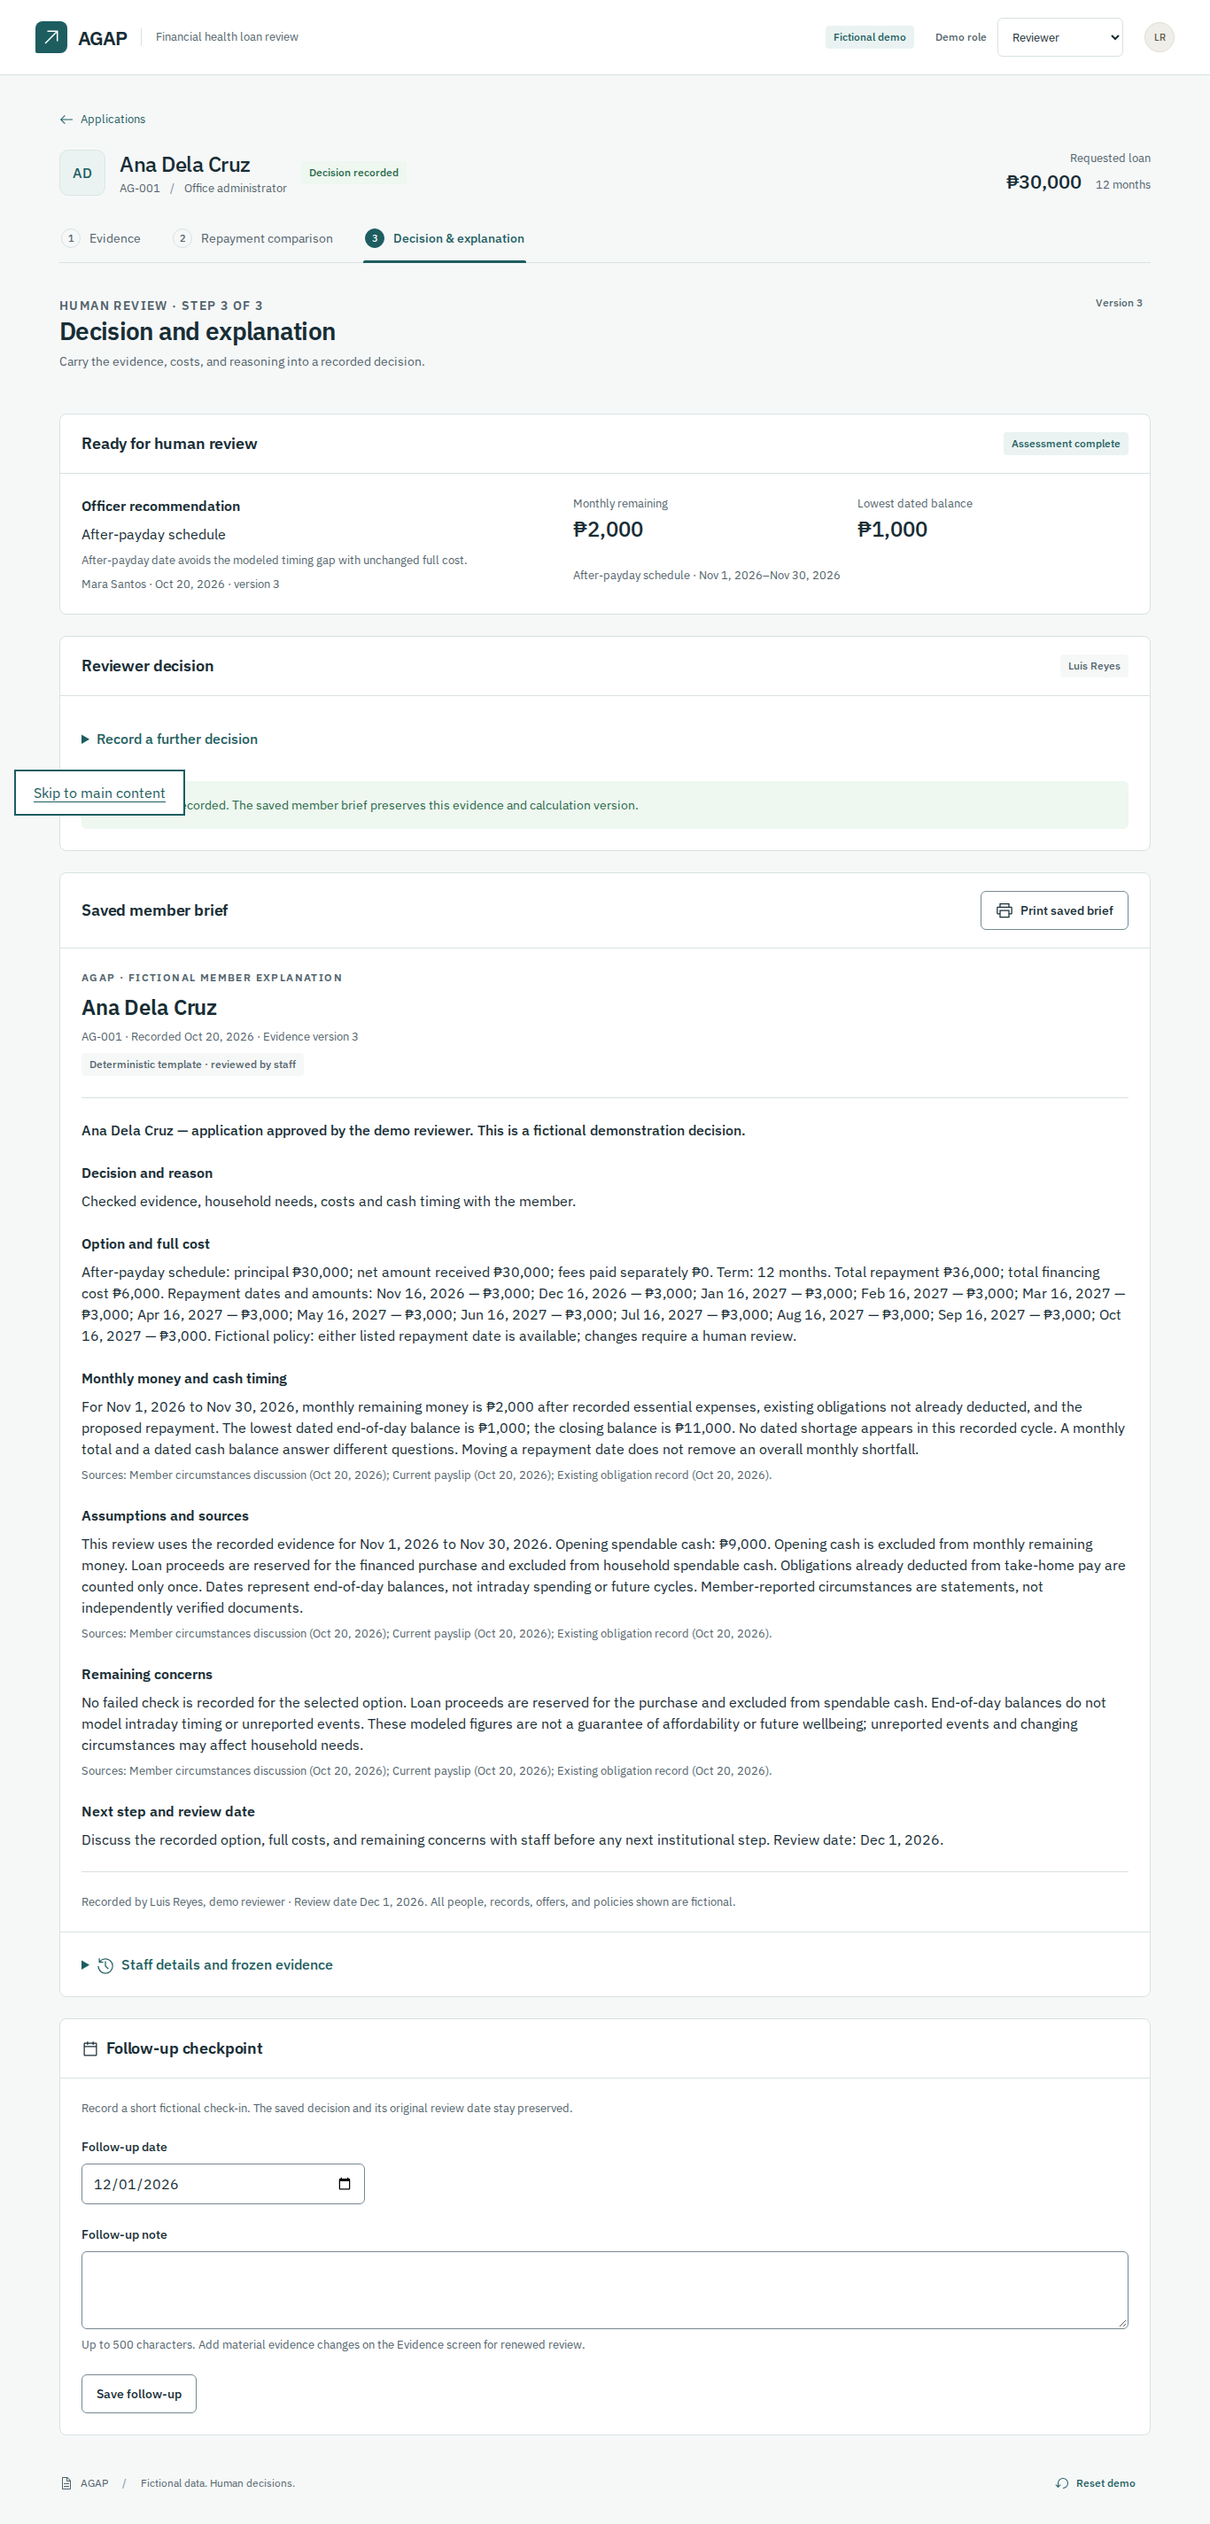
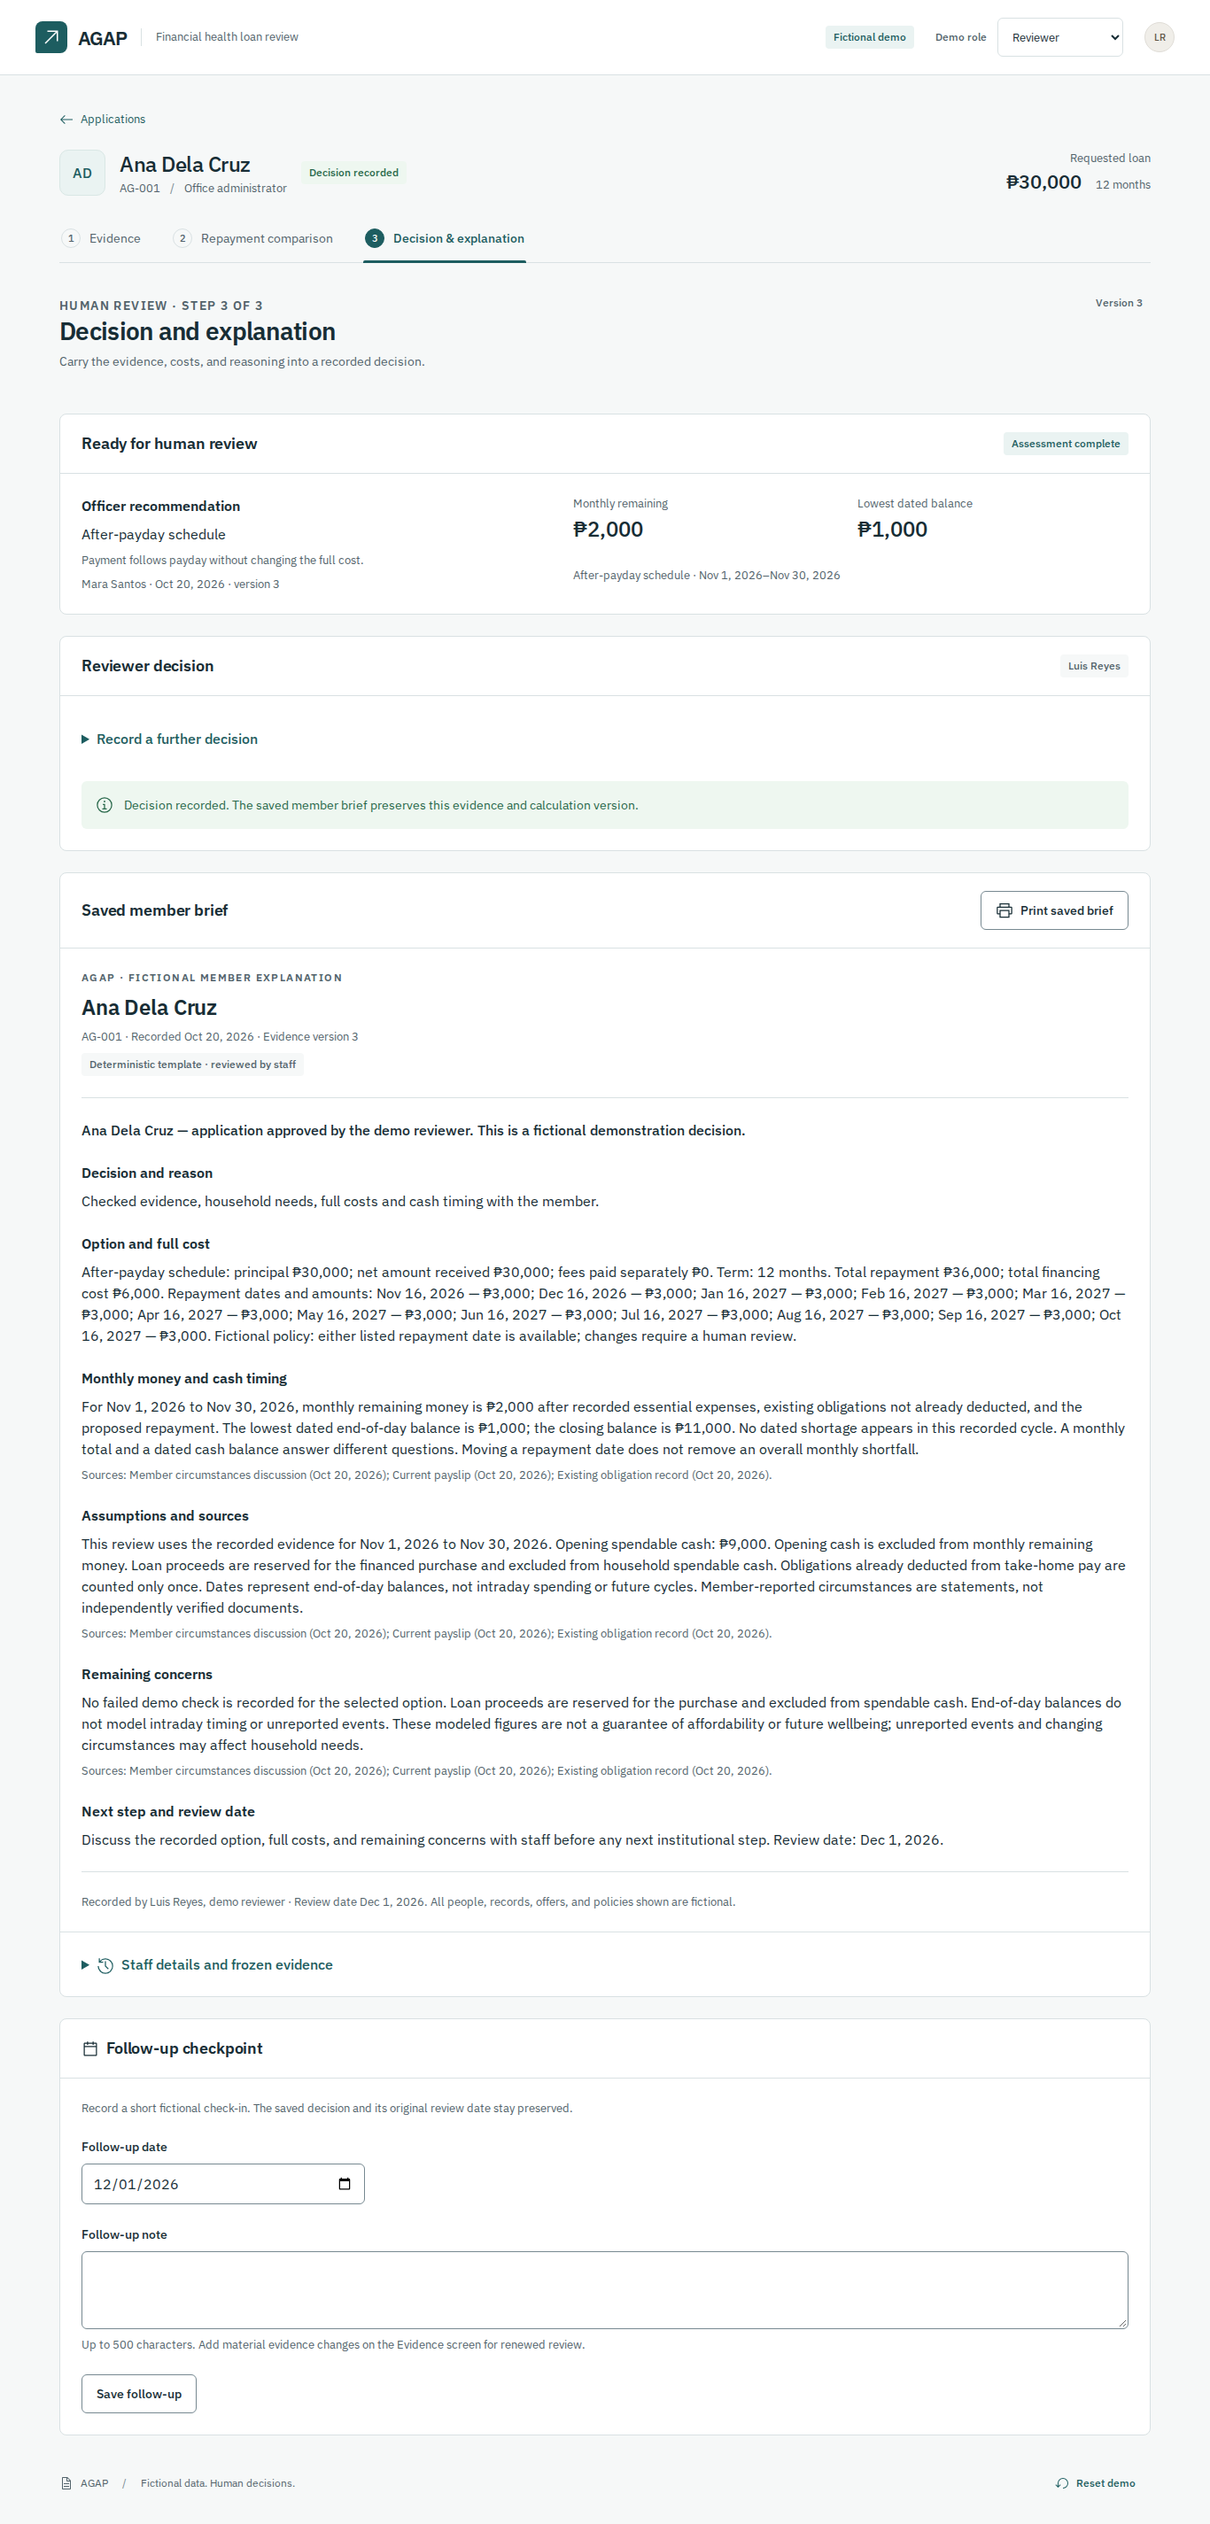
fix: retain shortfall concerns in returned reviews and improve recovery

Changed region(s): [[0.123, 0.6558, 0.9224, 0.687], [0.0615, 0.3123, 0.1537, 0.3435]]

diff --git a/src/domain/explanation.ts b/src/domain/explanation.ts
@@ -6,6 +6,12 @@ export function buildExplanation(snapshot: DecisionSnapshot): ExplanationDraft {
   const { input, assessment } = snapshot;
   const offer = snapshot.offers.find(item => item.id === input.offerId);
   const scenario = assessment.status === 'complete' ? assessment.scenarios.find(item => item.offerId === input.offerId) : undefined;
+  const checkedScenarios = assessment.status === 'complete' ? (scenario ? [scenario] : assessment.scenarios) : [];
+  const failedChecks = checkedScenarios.flatMap(checked => checked.policyChecks.filter(check => !check.passed).map(check =>
+    `${snapshot.offers.find(item => item.id === checked.offerId)?.label ?? 'Recorded scenario'} — ${check.label}: ${check.detail}`));
+  const checkConcerns = failedChecks.join(' ') || (scenario
+    ? 'No failed demo check is recorded for the selected option.'
+    : 'No failing demo check appears across the recorded scenarios. No offer was selected for a decision; the clarification above still needs attention.');
   const sourceIds = [...new Set(snapshot.facts.flatMap(fact => fact.sourceId && snapshot.sources.some(source => source.id === fact.sourceId) ? [fact.sourceId] : []))];
   const outcomeText = input.outcome === 'approve' ? 'approved' : input.outcome === 'decline' ? 'declined' : 'returned for clarification';
   const sections: ExplanationDraft['sections'] = [{ title: 'Decision and reason', body: input.rationale.trim() || 'A reviewer rationale is required before recording.', sourceIds: [] }];
@@ -17,7 +23,7 @@ export function buildExplanation(snapshot: DecisionSnapshot): ExplanationDraft {
   sections.push({ title: 'Assumptions and sources', sourceIds, body: `This review uses the recorded evidence for ${dateLabel(snapshot.periodStart)} to ${dateLabel(snapshot.periodEnd)}. Opening spendable cash: ${opening?.value !== null && opening?.value !== undefined && !['missing', 'conflicting'].includes(opening.status) ? money(opening.value) : 'unavailable'}. Opening cash is excluded from monthly remaining money. Loan proceeds are reserved for the financed purchase and excluded from household spendable cash. Obligations already deducted from take-home pay are counted only once. Dates represent end-of-day balances, not intraday spending or future cycles. Member-reported circumstances are statements, not independently verified documents.` });
   const concerns = assessment.status === 'incomplete'
     ? `The assessment is incomplete: ${assessment.issues.map(issue => issue.message).join(' ')} No complete affordability result is available. Clarification does not imply an adverse judgment about the member.`
-    : `${scenario?.policyChecks.filter(check => !check.passed).map(check => `${check.label}: ${check.detail}`).join(' ') || 'No failed check is recorded for the selected option.'} ${assessment.warnings.join(' ')} These modeled figures are not a guarantee of affordability or future wellbeing; unreported events and changing circumstances may affect household needs.`;
+    : `${checkConcerns} ${assessment.warnings.join(' ')} These modeled figures are not a guarantee of affordability or future wellbeing; unreported events and changing circumstances may affect household needs.`;
   sections.push({ title: 'Remaining concerns', sourceIds, body: concerns.trim() });
   if (input.departureReason.trim()) sections.push({ title: 'Departure from the officer recommendation', sourceIds: [], body: input.departureReason.trim() });
   if (input.outcome === 'approve' && input.exceptions.length) sections.push({ title: 'Recorded policy exceptions', sourceIds: [], body: input.exceptions.map(exception => `${scenario?.policyChecks.find(check => check.policyId === exception.policyId)?.label ?? exception.policyId} (${exception.policyId}): ${exception.reason.trim()}`).join(' ') });

diff --git a/src/features/decision/DecisionPage.tsx b/src/features/decision/DecisionPage.tsx
@@ -1,4 +1,4 @@
-import { useState, type FormEvent } from 'react';
+import { useEffect, useRef, useState, type FormEvent } from 'react';
 import { Calendar, DocumentView, Printer, RecentlyViewed } from '@carbon/icons-react';
 import { useWorkspace } from '../../app/WorkspaceContext';
 import { assessCase } from '../../domain/assessment';
@@ -35,6 +35,14 @@ export default function DecisionPage({ record }: { record: CaseRecord }) {
     rationale: '', departureReason: '', exceptions: [], reviewDate: record.periodEnd, explanationReviewed: false,
   });
   const [errors, setErrors] = useState<Record<string, string>>({});
+  const formRef = useRef<HTMLFormElement>(null);
+  const errorSummary = useRef<HTMLDivElement>(null);
+  useEffect(() => {
+    if (Object.keys(errors).length) {
+      const invalid = formRef.current?.querySelector<HTMLElement>('input[aria-invalid="true"], select[aria-invalid="true"], textarea[aria-invalid="true"]');
+      (invalid ?? errorSummary.current)?.focus();
+    }
+  }, [errors]);
   const [status, setStatus] = useState('');
   const [saving, setSaving] = useState(false);
   const [selectedId, setSelectedId] = useState(record.decisions.at(-1)?.id ?? '');
@@ -82,14 +90,14 @@ export default function DecisionPage({ record }: { record: CaseRecord }) {
     } catch (error) { setFollowError(error instanceof Error ? error.message : 'The follow-up could not be saved.'); }
     finally { setSaving(false); }
   }
-  const decisionForm = <form onSubmit={submitDecision} className={styles.form} noValidate>
+  const decisionForm = <form ref={formRef} onSubmit={submitDecision} className={styles.form} noValidate>
     <fieldset><legend>Review outcome</legend><div className={styles.outcomes}>
       {(['approve', 'decline', 'return'] as const).map(outcome => <label key={outcome} className={styles.choice}>
         <input type="radio" name="outcome" value={outcome} checked={input.outcome === outcome} onChange={() => updateInput({ outcome, exceptions: [] })} />
         {outcome === 'approve' ? 'Approve' : outcome === 'decline' ? 'Decline' : 'Return for clarification'}
       </label>)}
     </div></fieldset>
-    {Object.keys(errors).length > 0 && <Notice tone="danger" role="alert">The decision was not recorded. Check the messages below.</Notice>}
+    {Object.keys(errors).length > 0 && <div ref={errorSummary} tabIndex={-1}><Notice tone="danger" role="alert">The decision was not recorded. Check the messages below.</Notice></div>}
     {['outcome', 'assessment', 'recommendation', 'form', 'exceptions'].map(name => <FieldError key={name} name={name} errors={errors} />)}
     {input.outcome !== 'return' && <div className="field">
       <label htmlFor="decision-offer">Offer considered</label>

diff --git a/tests/workflow.spec.ts b/tests/workflow.spec.ts
@@ -107,6 +107,12 @@ test('Ben retains the monthly shortfall after a date change; Cora can be returne
   await expect(page.getByRole('region', { name: 'Monthly remaining', exact: true })).toContainText('−₱4,000');
   await page.getByRole('radio', { name: /After-payday schedule/ }).check();
   await expect(page.getByRole('region', { name: 'Monthly remaining', exact: true })).toContainText('−₱4,000');
+  await page.getByRole('link', { name: 'Decision & explanation', exact: true }).click();
+  await page.getByLabel('Demo role').selectOption('reviewer');
+  await page.getByLabel('Clarification needed and next step').fill('Discuss the monthly shortfall and clarify household circumstances.');
+  await page.getByLabel(/I reviewed the template explanation/).check();
+  await page.getByRole('button', { name: 'Record decision', exact: true }).click();
+  await expect(page.getByRole('article', { name: 'Saved member brief' })).toContainText('−₱4,000');
   await page.goto('/#/applications/AG-003/comparison');
   await expect(page.getByRole('heading', { name: 'Evidence needs clarification' })).toBeVisible();
   await expect(page.getByRole('region', { name: 'Monthly remaining', exact: true })).toHaveCount(0);

diff --git a/src/domain/review.test.ts b/src/domain/review.test.ts
@@ -97,6 +97,15 @@ describe('human decision rules', () => {
 });
 
 describe('saved explanation and follow-up', () => {
+  it('retains the checked shortfall concerns when a complete case is returned without choosing an offer', () => {
+    const ben = createDemoCases()[1];
+    const snapshot = recordDecision(ben, input({ outcome: 'return', offerId: null, rationale: 'Discuss the monthly shortfall and clarify household circumstances.' }), reviewer, at).decisions[0];
+    const concerns = snapshot.explanation!.sections.find(section => section.title === 'Remaining concerns')!;
+    expect(concerns.body).toContain('−₱4,000');
+    expect(concerns.body).toContain('Requested schedule');
+    expect(concerns.body).toContain('After-payday schedule');
+    expect(concerns.body).not.toContain('No failed check');
+  });
   it('includes full costs, monthly versus timing, concerns, review date and resolvable sources', () => {
     const snapshot = recordDecision(ready(), input(), reviewer, at).decisions[0];
     const explanation = buildExplanation(snapshot); const text = JSON.stringify(explanation);

diff --git a/src/demo/persistence.test.ts b/src/demo/persistence.test.ts
@@ -27,6 +27,17 @@ describe('fictional case repository', () => {
     expect(warning).toHaveBeenCalled();
     expect(localStorage.getItem(STORAGE_KEY)).toBe(original);
   });
+  it('preserves structurally incomplete offer data instead of loading it into the workspace', async () => {
+    const records = await createBrowserRepository(localStorage).list();
+    records[0].offers = [];
+    const original = JSON.stringify({ schemaVersion: 1, records });
+    localStorage.setItem(STORAGE_KEY, original);
+    const warning = vi.fn();
+    const restored = await createBrowserRepository(localStorage, warning).list();
+    expect(warning).toHaveBeenCalled();
+    expect(restored[0].offers).toHaveLength(2);
+    expect(localStorage.getItem(STORAGE_KEY)).toBe(original);
+  });
   it('recovers explicitly through reset after malformed data', async () => {
     localStorage.setItem(STORAGE_KEY, '{broken');
     const repository = createBrowserRepository(localStorage, () => {});

diff --git a/src/demo/storageSchema.ts b/src/demo/storageSchema.ts
@@ -44,7 +44,7 @@ const snapshot = z.object({
 const record: z.ZodType<CaseRecord> = z.object({
   id: z.string(), member: z.object({ name: z.string(), initials: z.string(), occupation: z.string(), memberSince: z.string() }),
   purpose: z.string(), createdAt: z.string(), periodStart: date, periodEnd: date, version: z.number().int().positive(),
-  facts: z.array(fact), sources: z.array(source), offers: z.array(offer),
+  facts: z.array(fact), sources: z.array(source), offers: z.array(offer).min(1),
   corrections: z.array(z.object({ id: z.string(), factId: z.string(), before: fact, after: fact, reason: z.string(), actor, at: z.string() })),
   recommendation: recommendation.nullable(), decisions: z.array(snapshot),
   followUp: z.object({ reviewDate: date, note: z.string(), updatedAt: z.string() }).nullable(),

diff --git a/src/app/App.module.css b/src/app/App.module.css
@@ -6,7 +6,7 @@
 .headerActions { display: flex; align-items: center; gap: 24px; }
 .role { display: flex; align-items: center; gap: 12px; }
 .role label { font-size: 12px; color: var(--muted); white-space: nowrap; }
-.role select { width: 142px; font-size: 13px; min-height: 44px; border-color: var(--line); padding-left: 12px; }
+.role select { width: 142px; font-size: 13px; min-height: 44px; border-color: var(--input-line); padding-left: 12px; }
 .userAvatar { width: 34px; height: 34px; display: grid; place-items: center; flex: 0 0 auto; background: #f0eee9; border: 1px solid #e0ddd7; color: #605545; font-size: 11px; border-radius: 50%; font-weight: 500; }
 .main { max-width: 1280px; margin: 0 auto; padding: 40px 24px 24px; min-height: calc(100vh - 170px); }
 .main:focus { outline: none; }

diff --git a/src/features/decision/DecisionPage.test.tsx b/src/features/decision/DecisionPage.test.tsx
@@ -47,6 +47,7 @@ describe('decision page workflow', () => {
     expect(screen.getByLabelText(/I reviewed the template explanation/i)).not.toBeChecked();
     await user.click(screen.getByRole('button', { name: 'Record decision' }));
     expect(await screen.findByText(/Review the template explanation and confirm it before recording/i)).toBeVisible();
+    expect(screen.getByLabelText(/I reviewed the template explanation/i)).toHaveFocus();
     expect(screen.queryByRole('article', { name: 'Saved member brief' })).not.toBeInTheDocument();
   });
   it('prints saved explanation and source titles while later follow-up stays separate', async () => {

diff --git a/docs/AGAP_Verification.md b/docs/AGAP_Verification.md
@@ -1,0 +1,28 @@
+# Frontend verification record
+
+20 October 2026. Fictional browser prototype only. Team visual acceptance and representative staff evaluation remain pending.
+
+## Fresh implementation checks
+
+- `npm run check`: passed lint, TypeScript, production build, and **115 unit/interaction tests**.
+- `npm run test:e2e`: **6 Chromium browser tests passed** at the 1366×768 design viewport, with narrow-screen checks at 320 CSS pixels.
+- Ana's complete evidence → comparison → recommendation → reviewer → saved brief journey passed using only keyboard input.
+- Independent arithmetic tests cover Ana's ₱2,000 monthly remaining, −₱2,000 requested minimum, ₱1,000 alternative minimum, ₱11,000 closing, ₱36,000 total repayment and ₱6,000 financing cost. Ben stays −₱4,000 monthly; Cora stays incomplete.
+- Browser tests exercise refresh, source tracing, explicit reset, preserved incompatible storage, deep decision history, renewed-review status and retained historical print figures.
+- Automated axe checks found no violations in the tested screen states against WCAG 2 A/AA, 2.1 AA and 2.2 AA tags. This is automated coverage, not a claim of complete accessibility certification.
+- Font binary inspection confirmed the bundled Latin + Latin Extended subsets contain ₱, −, ñ, 0/1/I/l for weights 400/500/600. All ten digits have equal advance widths (600 units). Browser font files are served locally; licenses are included.
+- Generated and text-inspected the two-page A4 fictional member brief: costs, assumptions, sources, decision and review date are present. Visual screenshots are in `docs/screenshots/`; they document implementation, not acceptance.
+
+## Independent review and corrections
+
+A separate read-only review found one Important explanation defect: returning a complete case could omit its failed policy checks. The template now preserves concerns from the checked available scenarios when no offer is selected. A regression proves Ben's −₱4,000 shortfall survives a return for clarification; the browser suite verifies the saved brief.
+
+Additional corrections preserve structurally incomplete saved data for explicit recovery, focus the first invalid decision field after validation, and keep diagrams readable through local scrolling on small screens. Dated movements and detailed policy assumptions use progressive disclosure.
+
+## Human review still required
+
+- [Visual and workflow review](https://github.com/Aracena18/AGAP/issues/1): inspect actual screens, copy, hierarchy, keyboard use and printed explanation.
+- [Representative staff exercise](https://github.com/Aracena18/AGAP/issues/2): record observed effort, missed issues and appropriate next actions. No impact percentage has been assumed.
+- [Backend planning gate](https://github.com/Aracena18/AGAP/issues/3): database, authentication and AI gateway decisions follow frontend acceptance.
+
+No real member records, live AI calls, core-system connections or payment operations were used.
